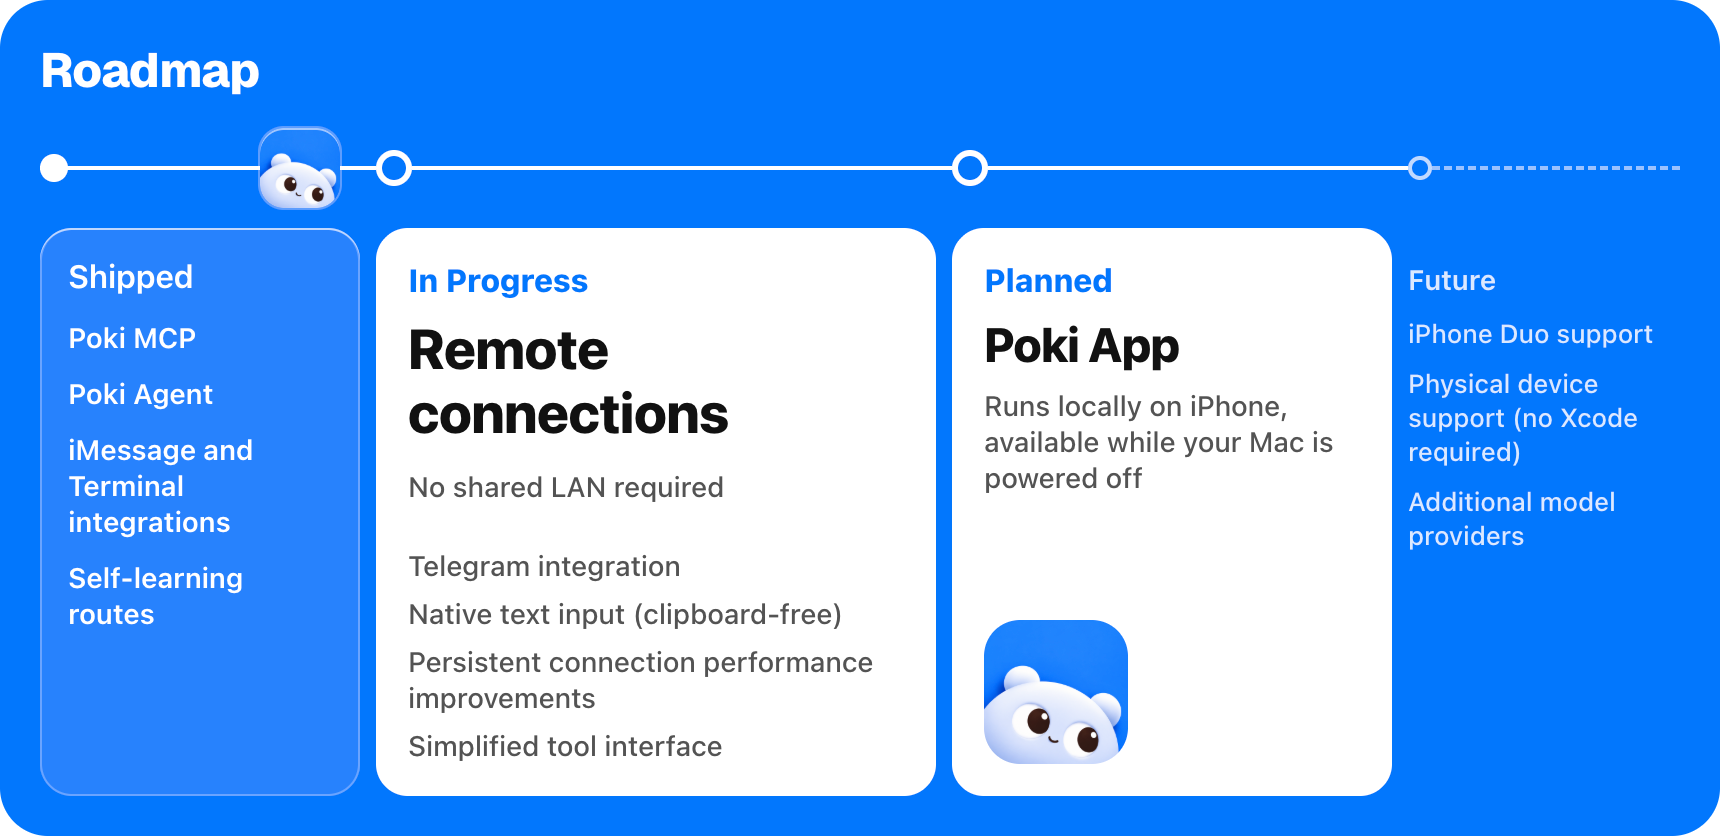
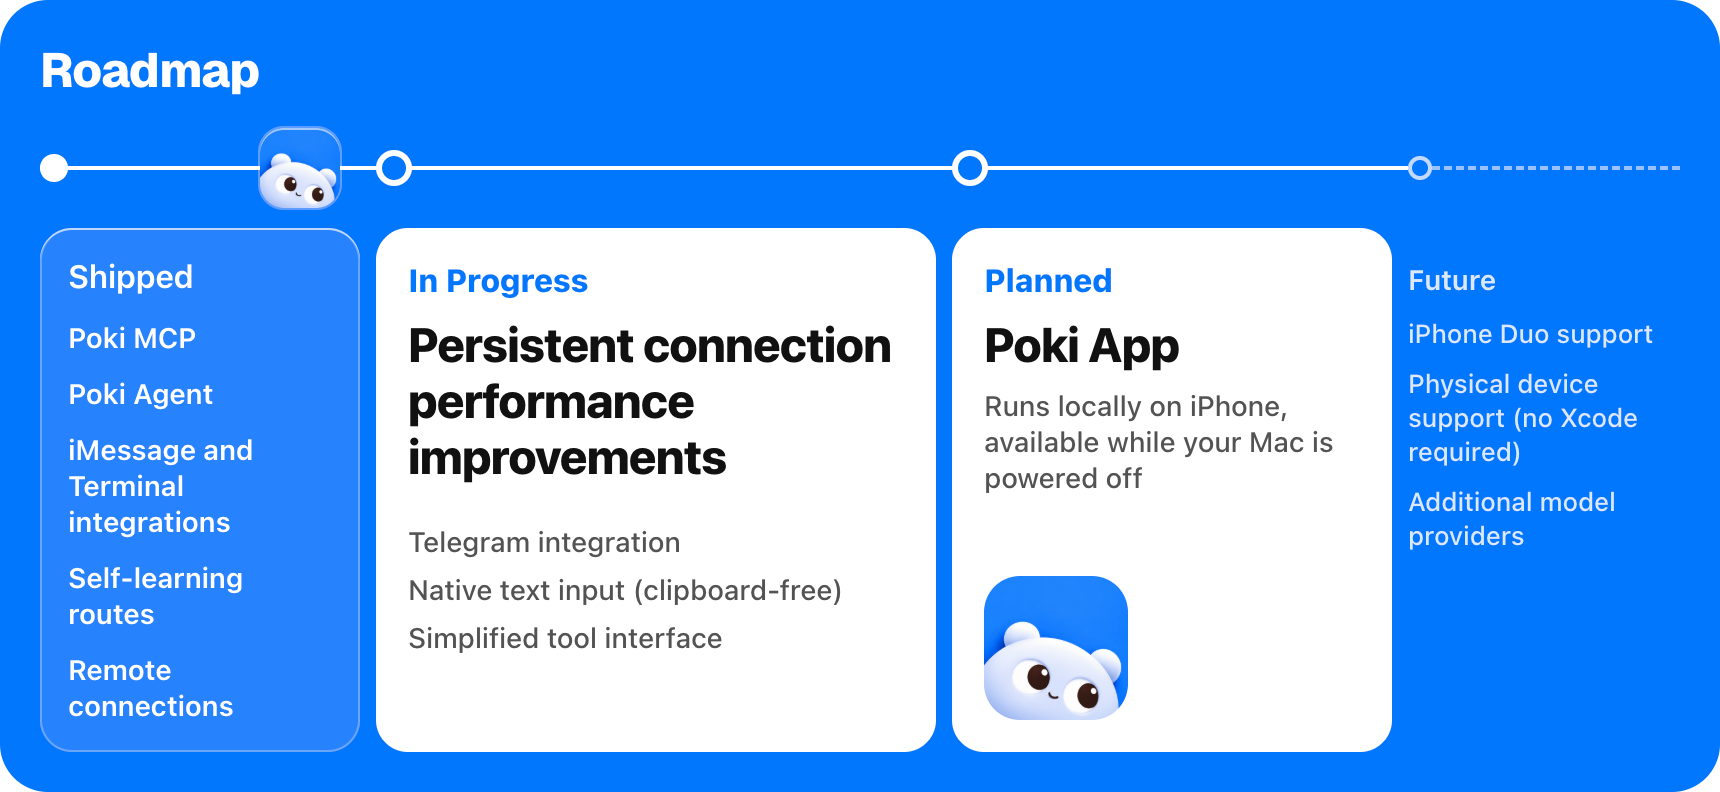
Mark remote connections as shipped in the roadmap

diff --git a/README.es.md b/README.es.md
@@ -113,7 +113,7 @@ La compatibilidad con iPhone físico solo se ha verificado en iPhone con la inte
 ## Hoja de ruta
 
 <p align="center">
-  <img src="docs/images/roadmap.png" width="860" alt="Poki roadmap. Shipped: Poki MCP, Poki Agent, iMessage and Terminal integrations, self-learning routes. In Progress: remote connections (no shared LAN required), Telegram integration, native text input (clipboard-free), persistent connection performance improvements, simplified tool interface. Planned: Poki App, which runs locally on iPhone and is available while your Mac is powered off. Future: iPhone Duo support, physical device support (no Xcode required), additional model providers.">
+  <img src="docs/images/roadmap.png" width="860" alt="Poki roadmap. Shipped: Poki MCP, Poki Agent, iMessage and Terminal integrations, self-learning routes, remote connections. In Progress: persistent connection performance improvements, Telegram integration, native text input (clipboard-free), simplified tool interface. Planned: Poki App, which runs locally on iPhone and is available while your Mac is powered off. Future: iPhone Duo support, physical device support (no Xcode required), additional model providers.">
 </p>
 
 - **Publicado:** Poki MCP, Poki Agent, integraciones con iMessage y la terminal, rutas de autoaprendizaje

diff --git a/README.ja.md b/README.ja.md
@@ -113,7 +113,7 @@ poki "Search esp32 in Chrome and summarize the top result"
 ## ロードマップ
 
 <p align="center">
-  <img src="docs/images/roadmap.png" width="860" alt="Poki roadmap. Shipped: Poki MCP, Poki Agent, iMessage and Terminal integrations, self-learning routes. In Progress: remote connections (no shared LAN required), Telegram integration, native text input (clipboard-free), persistent connection performance improvements, simplified tool interface. Planned: Poki App, which runs locally on iPhone and is available while your Mac is powered off. Future: iPhone Duo support, physical device support (no Xcode required), additional model providers.">
+  <img src="docs/images/roadmap.png" width="860" alt="Poki roadmap. Shipped: Poki MCP, Poki Agent, iMessage and Terminal integrations, self-learning routes, remote connections. In Progress: persistent connection performance improvements, Telegram integration, native text input (clipboard-free), simplified tool interface. Planned: Poki App, which runs locally on iPhone and is available while your Mac is powered off. Future: iPhone Duo support, physical device support (no Xcode required), additional model providers.">
 </p>
 
 - **リリース済み:** Poki MCP、Poki Agent、iMessage とターミナルの連携、自己学習ルート

diff --git a/README.ko.md b/README.ko.md
@@ -113,7 +113,7 @@ poki "Search esp32 in Chrome and summarize the top result"
 ## 로드맵
 
 <p align="center">
-  <img src="docs/images/roadmap.png" width="860" alt="Poki roadmap. Shipped: Poki MCP, Poki Agent, iMessage and Terminal integrations, self-learning routes. In Progress: remote connections (no shared LAN required), Telegram integration, native text input (clipboard-free), persistent connection performance improvements, simplified tool interface. Planned: Poki App, which runs locally on iPhone and is available while your Mac is powered off. Future: iPhone Duo support, physical device support (no Xcode required), additional model providers.">
+  <img src="docs/images/roadmap.png" width="860" alt="Poki roadmap. Shipped: Poki MCP, Poki Agent, iMessage and Terminal integrations, self-learning routes, remote connections. In Progress: persistent connection performance improvements, Telegram integration, native text input (clipboard-free), simplified tool interface. Planned: Poki App, which runs locally on iPhone and is available while your Mac is powered off. Future: iPhone Duo support, physical device support (no Xcode required), additional model providers.">
 </p>
 
 - **출시됨:** Poki MCP, Poki Agent, iMessage 및 터미널 통합, 자가 학습 경로

diff --git a/README.zh-TW.md b/README.zh-TW.md
@@ -113,7 +113,7 @@ poki "Search esp32 in Chrome and summarize the top result"
 ## 路線圖
 
 <p align="center">
-  <img src="docs/images/roadmap.png" width="860" alt="Poki roadmap. Shipped: Poki MCP, Poki Agent, iMessage and Terminal integrations, self-learning routes. In Progress: remote connections (no shared LAN required), Telegram integration, native text input (clipboard-free), persistent connection performance improvements, simplified tool interface. Planned: Poki App, which runs locally on iPhone and is available while your Mac is powered off. Future: iPhone Duo support, physical device support (no Xcode required), additional model providers.">
+  <img src="docs/images/roadmap.png" width="860" alt="Poki roadmap. Shipped: Poki MCP, Poki Agent, iMessage and Terminal integrations, self-learning routes, remote connections. In Progress: persistent connection performance improvements, Telegram integration, native text input (clipboard-free), simplified tool interface. Planned: Poki App, which runs locally on iPhone and is available while your Mac is powered off. Future: iPhone Duo support, physical device support (no Xcode required), additional model providers.">
 </p>
 
 - **已發布:** Poki MCP、Poki Agent、iMessage 與終端機整合、自我學習路線

diff --git a/README.md b/README.md
@@ -115,7 +115,7 @@ Physical iPhone support has been verified only on iPhones using the Chinese inte
 ## Roadmap
 
 <p align="center">
-  <img src="docs/images/roadmap.png" width="860" alt="Poki roadmap. Shipped: Poki MCP, Poki Agent, iMessage and Terminal integrations, self-learning routes. In Progress: remote connections (no shared LAN required), Telegram integration, native text input (clipboard-free), persistent connection performance improvements, simplified tool interface. Planned: Poki App, which runs locally on iPhone and is available while your Mac is powered off. Future: iPhone Duo support, physical device support (no Xcode required), additional model providers.">
+  <img src="docs/images/roadmap.png" width="860" alt="Poki roadmap. Shipped: Poki MCP, Poki Agent, iMessage and Terminal integrations, self-learning routes, remote connections. In Progress: persistent connection performance improvements, Telegram integration, native text input (clipboard-free), simplified tool interface. Planned: Poki App, which runs locally on iPhone and is available while your Mac is powered off. Future: iPhone Duo support, physical device support (no Xcode required), additional model providers.">
 </p>
 
 ## Star History

diff --git a/README.zh-CN.md b/README.zh-CN.md
@@ -113,7 +113,7 @@ poki "Search esp32 in Chrome and summarize the top result"
 ## 路线图
 
 <p align="center">
-  <img src="docs/images/roadmap.zh-CN.png" width="860" alt="Poki 路线图。已发布：Poki MCP、Poki Agent、iMessage 与终端集成、自学习路线。开发中：远程连接（无需同一局域网）、Telegram 集成、原生文本输入（不经剪贴板）、长连接性能优化、简化工具接口。计划中：Poki App，在 iPhone 本地运行，Mac 关机时可用。远期规划：iPhone Duo 支持、真机支持（无需安装 Xcode）、更多模型提供商。">
+  <img src="docs/images/roadmap.zh-CN.png" width="860" alt="Poki 路线图。已发布：Poki MCP、Poki Agent、iMessage 与终端集成、自学习路线、远程连接。开发中：长连接性能优化、Telegram 集成、原生文本输入（不经剪贴板）、简化工具接口。计划中：Poki App，在 iPhone 本地运行，Mac 关机时可用。远期规划：iPhone Duo 支持、真机支持（无需安装 Xcode）、更多模型提供商。">
 </p>
 
 ## Star History
